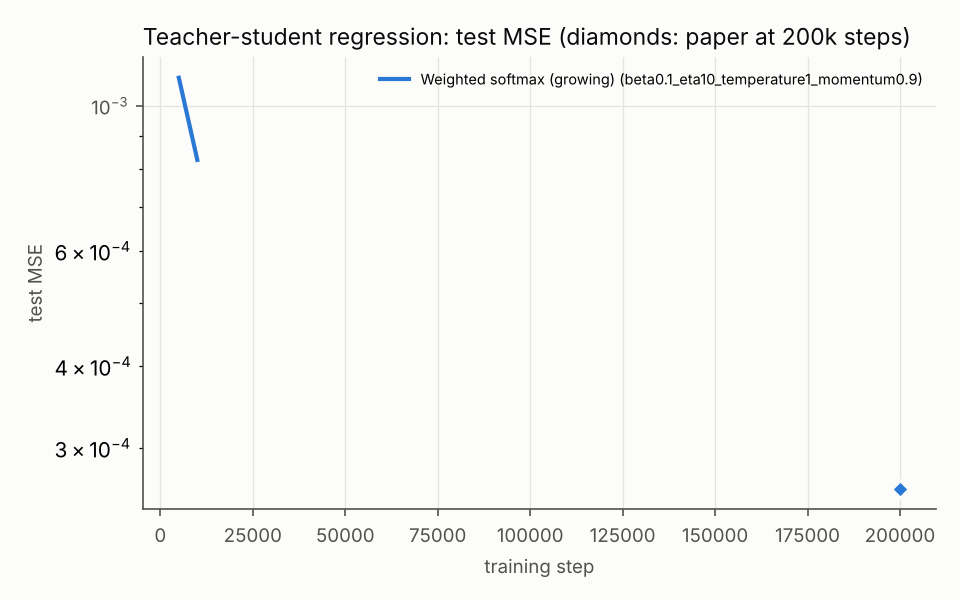
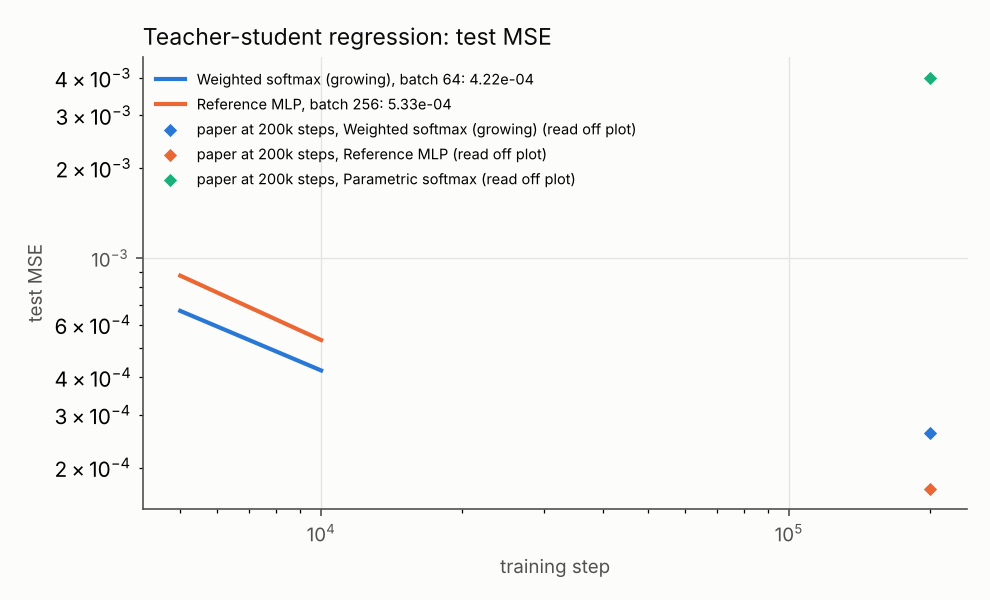
Figures: final teacher-student runs, facts v2 plateau and fine-tuning, CIFAR-100 panel
Claude-Session: https://claude.ai/code/session_01RLNGfWX7myMbpBLDNmpMEp

diff --git a/experiments/plots.py b/experiments/plots.py
@@ -143,28 +143,35 @@ def fig_beta_eta(runs, out):
 
 
 def fig_teacher_student(ts, out):
-  best = {}
+  """Final 200k-step runs where present (sweeps otherwise: best grid point per student at 10k steps)."""
+  ts = {p: r for p, r in ts.items() if 'precision_check' not in p}
+  curves = {}
   for path, r in ts.items():
-    st = r['cfg']['student']
-    if st not in best or r['final_test_mse'] < best[st][1]['final_test_mse'] or 'full' in path:
-      if st in best and 'full' in best[st][0] and 'full' not in path:
-        continue
-      best[st] = (path, r)
-  if not best:
+    st, final = r['cfg']['student'], '_final' in path
+    key = os.path.basename(os.path.dirname(path)) if final else st
+    if final or not any(st == r2['cfg']['student'] and '_final' in p2 for p2, r2 in ts.items()):
+      if key not in curves or r['final_test_mse'] < curves[key][1]['final_test_mse']:
+        curves[key] = (path, r)
+  if not curves:
     return
   names = {'gws': 'Weighted softmax (growing)', 'mlp': 'Reference MLP', 'psm': 'Parametric softmax'}
   targets = {'gws': 2.6e-4, 'mlp': 1.7e-4, 'psm': 4e-3}
-  fig, ax = new_fig(6.4, 4.0)
-  for c, st in zip(SERIES, ('gws', 'mlp', 'psm')):
-    if st not in best:
-      continue
-    path, r = best[st]
+  color = dict(zip(('gws', 'mlp', 'psm'), SERIES))            # one color per student: curves and paper markers
+  fig, ax = new_fig(6.6, 4.0)
+  for key in sorted(curves):
+    path, r = curves[key]
+    st = r['cfg']['student']
     xs = [p['step'] for p in r['log'] if p['step'] > 0]      # step 0 omitted: the initial rows' outputs are B x scale
     ys = [p['test_mse'] for p in r['log'] if p['step'] > 0]
-    ax.plot(xs, ys, color=c, linewidth=2, label=f'{names[st]} ({os.path.basename(path)})')
-    ax.scatter([200000], [targets[st]], marker='D', s=36, color=c, edgecolor=SURFACE, linewidth=1.5, zorder=3)
+    dashed = st == 'mlp' and r['cfg']['batch_size'] == 64
+    label = f"{names[st]}, batch {r['cfg']['batch_size']}: {ys[-1]:.2e}"
+    ax.plot(xs, ys, color=color[st], linewidth=2, linestyle='--' if dashed else '-', label=label)
+  for st in ('gws', 'mlp', 'psm'):
+    ax.scatter([200000], [targets[st]], marker='D', s=36, color=color[st], edgecolor=SURFACE, linewidth=1.5,
+               zorder=3, label=f'paper at 200k steps, {names[st]} (read off plot)')
+  ax.set_xscale('log')
   ax.set_yscale('log')
-  style(ax, 'Teacher-student regression: test MSE (diamonds: paper at 200k steps)', 'training step', 'test MSE')
+  style(ax, 'Teacher-student regression: test MSE', 'training step', 'test MSE')
   ax.legend(fontsize=7, frameon=False)
   fig.tight_layout()
   fig.savefig(os.path.join(out, 'teacher_student.png'), dpi=150, facecolor=SURFACE)
@@ -198,19 +205,21 @@ def fig_hybrid(runs, out):
 
 
 def fig_multi_epoch(runs, out):
-  keys = [k for k in runs if k.endswith('_50ep') and not k.endswith('c100')]
-  if not keys:
+  panels = [('CIFAR-10', [k for k in runs if k.endswith('_50ep')]),
+            ('CIFAR-100', [k for k in runs if k.endswith('_50ep_c100')])]
+  panels = [(t, ks) for t, ks in panels if ks]
+  if not panels:
     return
-  fig, ax = new_fig(7.0, 4.2)
-  for c, k in zip(SERIES, sorted(keys)):
-    r = runs[k][0]
-    spe = 781
-    ev = [e for e in r['evals'] if e['step'] > 0]
-    ax.plot([e['step'] / spe for e in ev], [100 * e['test_acc'] for e in ev], '-o', markersize=3, linewidth=1.6,
-            color=c, label=f'{k}: {100 * r["final_test_acc"]:.1f}')
-  style(ax, 'CIFAR-10, 50 epochs (aug.): test accuracy (%; intermediate points on 2,000 test images)', 'epoch',
-        'test accuracy (%)')
-  ax.legend(fontsize=7, frameon=False, ncol=2)
+  fig, axes = new_fig(6.4 * len(panels), 4.2, ncols=len(panels))
+  for ax, (title, keys) in zip(np.atleast_1d(axes), panels):
+    for c, k in zip(SERIES * 2, sorted(keys, key=lambda k: -runs[k][0]['final_test_acc'])):
+      r = runs[k][0]
+      spe = 781
+      ev = [e for e in r['evals'] if e['step'] > 0]
+      ax.plot([e['step'] / spe for e in ev], [100 * e['test_acc'] for e in ev], '-o', markersize=3, linewidth=1.6,
+              color=c, label=f'{k}: {100 * r["final_test_acc"]:.1f}')
+    style(ax, f'{title}, 50 epochs (aug.): test accuracy (%)', 'epoch', 'test accuracy (%)')
+    ax.legend(fontsize=7, frameon=False)
   fig.tight_layout()
   fig.savefig(os.path.join(out, 'multi_epoch.png'), dpi=150, facecolor=SURFACE)
   plt.close(fig)
@@ -253,28 +262,45 @@ def fig_train_loss(roots, out, names=('gws', 'rbf', 'gauge', 'mlp_muon', 'mlp_ad
 
 
 def fig_facts(facts, out):
-  if not facts:
-    return
-  Ns = sorted({r['cfg']['n_people'] for r in facts.values()})
-  fig, axes = new_fig(4.2 * len(Ns), 3.8, ncols=len(Ns))
-  axes = np.atleast_1d(axes)
-  for ax, N in zip(axes, Ns):
-    items = sorted((p, r) for p, r in facts.items() if r['cfg']['n_people'] == N)
-    for c, (p, r) in zip(SERIES, items):
-      ax.plot([q['step'] for q in r['log']], [q['loss'] for q in r['log']], linewidth=1.8, color=c,
-              label=os.path.basename(p).replace(f'_N{N}', ''))
-    K = items[0][1]['cfg']['n_values']
-    ax.axhline(math.log(K), color=INK2, linewidth=0.8, linestyle=':')
-    style(ax, f'N = {N} individuals: fact loss', 'training step', 'cross-entropy on all facts')
+  """Fact loss vs step per population size N (main phase), and old/new fact accuracy during fine-tuning."""
+  main = {p: r for p, r in facts.items() if not r['cfg'].get('finetune_people')}
+  if main:
+    Ns = sorted({r['cfg']['n_people'] for r in main.values()})
+    fig, axes = new_fig(4.6 * len(Ns), 3.8, ncols=len(Ns))
+    for ax, N in zip(np.atleast_1d(axes), Ns):
+      items = sorted((p, r) for p, r in main.items() if r['cfg']['n_people'] == N)
+      for c, (p, r) in zip(SERIES * 2, items):
+        ax.plot([q['step'] for q in r['log']], [q['loss'] for q in r['log']], linewidth=1.8, color=c,
+                label=f"{os.path.basename(p).replace(f'_N{N}', '')}: acc {r['final_acc']:.3f}")
+      K = items[0][1]['cfg']['n_values']
+      ax.axhline(math.log(K), color=INK2, linewidth=0.8, linestyle=':')
+      ax.axhline(0.9 * math.log(K), color=INK2, linewidth=0.6, linestyle='--')
+      style(ax, f'N = {N} individuals: fact loss (dotted: ln K; dashed: plateau end)', 'training step',
+            'cross-entropy on facts')
+      ax.legend(fontsize=7, frameon=False)
+    fig.tight_layout()
+    fig.savefig(os.path.join(out, 'facts_plateau.png'), dpi=150, facecolor=SURFACE)
+    plt.close(fig)
+  ft = {p: r for p, r in facts.items() if r['cfg'].get('finetune_people')}
+  if ft:
+    fig, ax = new_fig(6.8, 4.0)
+    for c, (p, r) in zip(SERIES, sorted(ft.items())):
+      T0 = r['cfg']['steps']
+      log = [q for q in r['log'] if q['step'] >= T0]
+      name = os.path.basename(p)
+      ax.plot([q['step'] - T0 for q in log], [q['acc'] for q in log], color=c, linewidth=2, label=f'{name}: old facts')
+      ax.plot([q['step'] - T0 for q in log], [q['acc_new'] for q in log], color=c, linewidth=1.4, linestyle='--',
+              label=f'{name}: new facts')
+    style(ax, 'Fine-tuning on new individuals only (no replay): fact accuracy', 'fine-tuning step', 'accuracy')
     ax.legend(fontsize=7, frameon=False)
-  fig.tight_layout()
-  fig.savefig(os.path.join(out, 'facts_plateau.png'), dpi=150, facecolor=SURFACE)
-  plt.close(fig)
+    fig.tight_layout()
+    fig.savefig(os.path.join(out, 'facts_finetune.png'), dpi=150, facecolor=SURFACE)
+    plt.close(fig)
 
 
 def main():
   p = argparse.ArgumentParser()
-  p.add_argument('--results', nargs='*', default=['results/colab_a100', 'results/colab_l4b', 'results/local_facts'])
+  p.add_argument('--results', nargs='*', default=['results/colab_a100', 'results/colab_l4b'])
   p.add_argument('--recovered', default='docs/data/singlepass_recovered.json')
   p.add_argument('--out', default='docs/figures')
   args = p.parse_args()
@@ -286,7 +312,8 @@ def main():
     for f in glob.glob(os.path.join(root, '**', 'baselines_n50000.json'), recursive=True):
       baselines.update({k: v for k, v in json.load(open(f)).items() if isinstance(v, dict)})
     ts.update(load_json_results(root, 'ts'))
-    facts.update(load_json_results(root, 'facts'))
+    ts.update(load_json_results(root, 'ts_final'))
+    facts.update({p: r for p, r in load_json_results(root, 'facts2').items()})   # task with 2-token names (v2)
   if os.path.exists(args.recovered):     # single-pass runs whose files were lost (see the file's comment)
     for k, accs in json.load(open(args.recovered)).items():
       if not k.startswith('_') and len(runs.get(k, [])) < len(accs):
